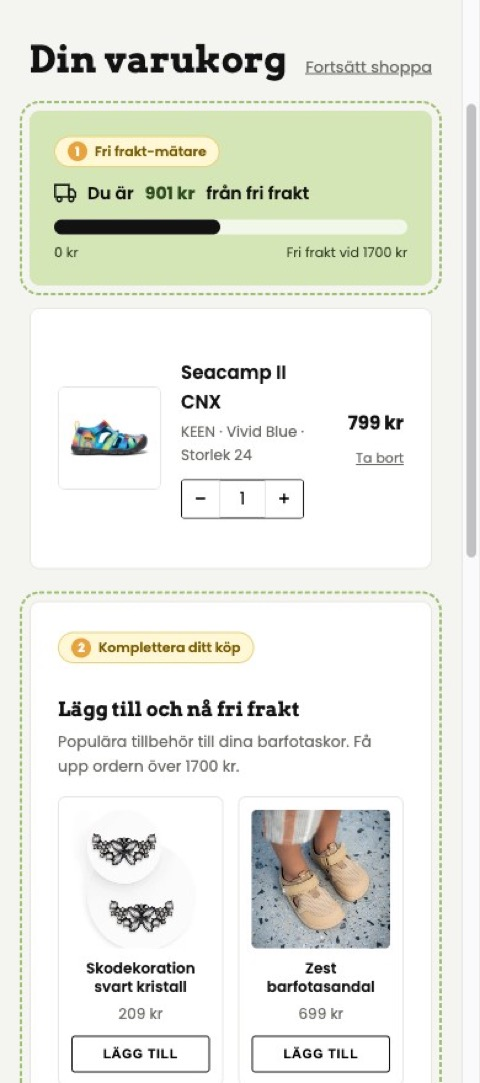
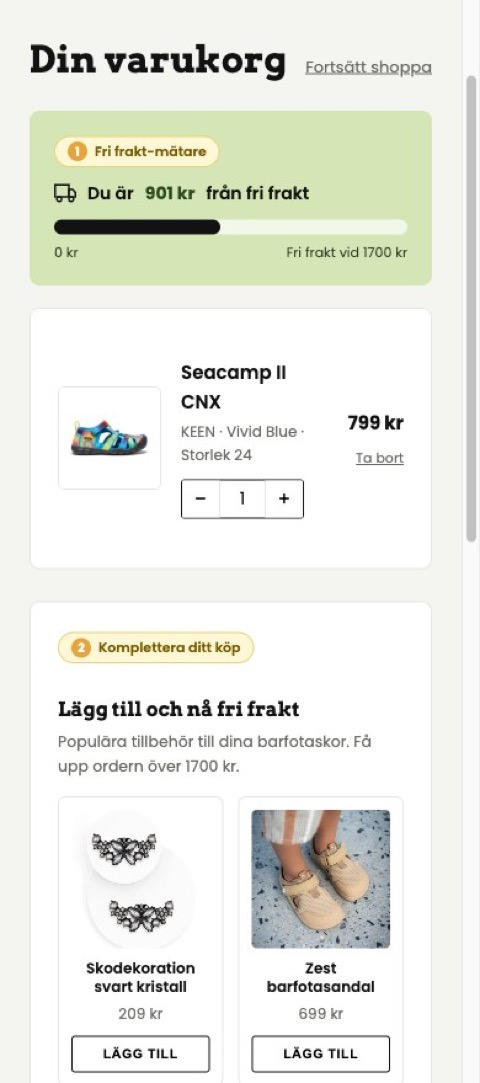
TJÅKKO mockups: remove dashed annotation outlines (keep small labels + corner legend)

diff --git a/tjakko-pdp-redesign/index.html b/tjakko-pdp-redesign/index.html
@@ -172,7 +172,7 @@
   /* annotation tags + legend */
   .tag{display:inline-flex;align-items:center;gap:6px;background:#fff7d6;border:1px solid #e9d27a;color:#7a5c00;font-size:11px;font-weight:600;border-radius:20px;padding:3px 10px;margin-bottom:8px}
   .tag .dot{width:16px;height:16px;border-radius:50%;background:var(--gold);color:#fff;display:flex;align-items:center;justify-content:center;font-size:10px;font-weight:700}
-  .new-outline{outline:2px dashed var(--sage-deep);outline-offset:5px;border-radius:8px}
+  .new-outline{border-radius:8px}
 
   .legend{position:fixed;right:18px;bottom:84px;z-index:55;background:#fff;border:1px solid var(--line);border-radius:10px;box-shadow:0 10px 30px rgba(0,0,0,.16);width:300px;font-size:12px;overflow:hidden}
   .legend h4{background:var(--ink);color:#fff;font-size:12px;text-transform:uppercase;letter-spacing:1px;padding:10px 14px;font-weight:600;cursor:pointer;display:flex;justify-content:space-between;align-items:center;gap:10px}

diff --git a/tjakko-cart-redesign/index.html b/tjakko-cart-redesign/index.html
@@ -80,7 +80,7 @@
 
   .tag{display:inline-flex;align-items:center;gap:6px;background:#fff7d6;border:1px solid #e9d27a;color:#7a5c00;font-size:11px;font-weight:600;border-radius:20px;padding:3px 10px}
   .tag .dot{width:16px;height:16px;border-radius:50%;background:var(--gold);color:#fff;display:flex;align-items:center;justify-content:center;font-size:10px;font-weight:700}
-  .new-outline{outline:2px dashed var(--sage-deep);outline-offset:6px;border-radius:8px}
+  .new-outline{border-radius:8px}
 
   .legend{position:fixed;right:18px;bottom:18px;z-index:50;background:#fff;border:1px solid var(--line);border-radius:10px;box-shadow:0 10px 30px rgba(0,0,0,.14);width:290px;font-size:12px;overflow:hidden}
   .legend h4{background:var(--ink);color:#fff;font-size:12px;text-transform:uppercase;letter-spacing:1px;padding:10px 14px;font-weight:600;font-family:'Poppins'}
